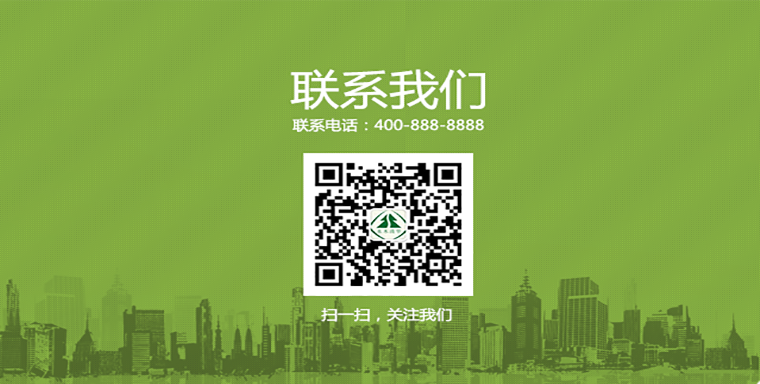
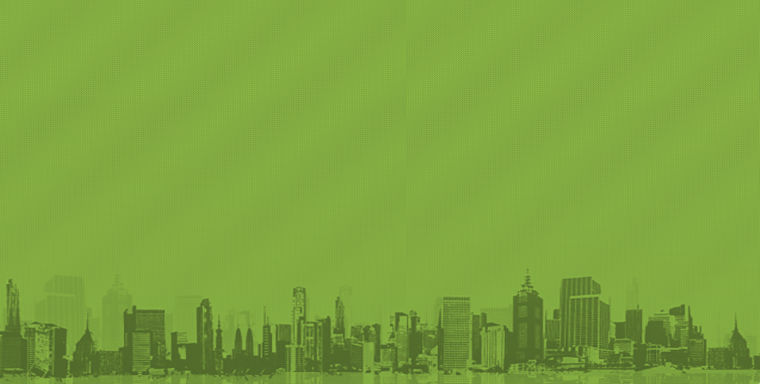
shuimu

diff --git a/css/index.css b/css/index.css
@@ -7,7 +7,7 @@
 	height: 80px;
 	position: absolute;
 	top:135px;
-	left:750px;
+	left:800px;
 }
 .idnex-span1{
 	display: block;
@@ -38,7 +38,7 @@
 .item-div3{
 	position: absolute;
 	top:135px;
-	left: 300px;
+	left: 368px;
 }
 .item-div3 span{
 	display: block;
@@ -56,7 +56,7 @@
 .item-div4{
 	position: absolute;
 	top:135px;
-	left: 200px;
+	left: 368px;
 }
 
 .item-div4 span{  
@@ -74,24 +74,6 @@
 .idnex-span6{
 	font-size: 28px;
 }
-
-/*.idnex-span5{
-	 font:28px "微软雅黑";
-	 font-weight:bold;
-	 position:relative;
-	text-shadow: 1px 2px 3px rgba(21,73,191,0.5);
-	 color:#1549bf;
-}
-.idnex-span5:after{ 
-	position:absolute;
-	left:0px; 
-	color:#ea0000; 
-	-webkit-mask-image:-webkit-gradient(linear, 0 0, 0 100%, from(rgba(0, 0, 0, 0.9)), color-stop(40%, rgba(0, 0, 0, 0.5)),to(rgba(0, 0, 0, 0))); 
-	text-shadow:0px 0px 2px rgba(234,0,0,1);
-}
-
-*/
-
 
 .index-banner{
 /*	width: 1350px;
@@ -216,7 +198,7 @@
 	width: 158px;
 	height:200px;
 	margin-top: 94px;
-	margin-left: 90px;
+	margin-left:368px;
 	
 }
 .index-ul1-li1{

diff --git a/css/contact-us.css b/css/contact-us.css
@@ -6,11 +6,29 @@
 .contact-banner{
 	height: 384px;
 	overflow: hidden;
+	position: relative;
 }
  .contact-banner .contact-banner1{
 	position: relative;
 	width: 760px;
 	height: 384px;
+}
+.contact-div{
+	width: 160px;
+	height: 210px;
+	position: absolute;
+	top:70px;
+	left: 490px;
+	font-size: 13px;
+	color: #fff;
+	text-align: center;
+}
+.contact-div img{
+	margin: 10px auto;
+}
+.contact-div-span{
+	font-size: 40px;
+	display: block;
 }
  .contact-banner .contact-banner1:after{
 	width: 0;
@@ -34,6 +52,7 @@
 	height: 385px;
 
 }
+
 .nav .subnav-txt{
 	margin-left: 4px;
 }

diff --git a/contact-us.html b/contact-us.html
@@ -54,6 +54,12 @@
 		<div class="contact-banner">
 			<div class="contact-banner1 fl">
 				<img src="img/contact1.png" alt="" >
+				<div class="contact-div">
+					<span class="contact-div-span">联系我们</span>
+					<span>联系电话：400-100-6169</span>
+					<img src="img/erweima1.png" alt="">
+					<span>扫一扫,关注我们</span>
+				</div>
 			</div>
 			<div id="map" class="fr">
 				

diff --git a/css/museum.css b/css/museum.css
@@ -7,7 +7,7 @@
 .item-div3{
 	position: absolute;
 	top:135px;
-	left: 300px;
+	left: 368px;
 }
 .item-div3 span{
 	display: block;
